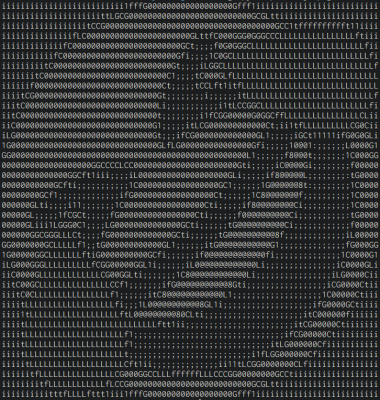
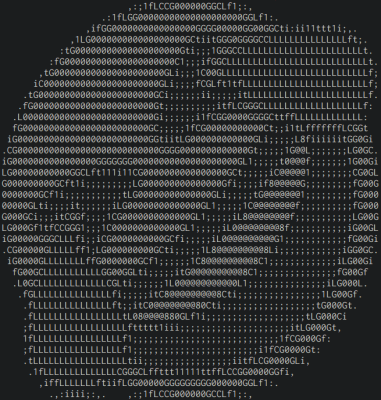
Add consideration of alpha channel

diff --git a/cimage.py b/cimage.py
@@ -22,9 +22,10 @@ def output_image(args, data, value_max, width, height, channels):
     for y in range(0, height):
         row = ""
         for x in range(0, width):
-            r = max(0, min(data[index + 0], value_max)) / value_max
-            g = max(0, min(data[index + 1], value_max)) / value_max
-            b = max(0, min(data[index + 2], value_max)) / value_max
+            a = max(0, min(data[index + 3], value_max)) / value_max
+            r = max(0, min(data[index + 0], value_max)) / value_max * a
+            g = max(0, min(data[index + 1], value_max)) / value_max * a
+            b = max(0, min(data[index + 2], value_max)) / value_max * a
             brightness = get_brightness(r, g, b)
             row += tone[min(int(brightness * len(tone)), len(tone) - 1)]
             index += channels
@@ -55,7 +56,7 @@ def main(argv):
     c_width = ctypes.c_int32()
     c_height = ctypes.c_int32()
     c_data = ctypes.POINTER(ctypes.c_uint8)
-    channels = 3
+    channels = 4
 
     c_data = imageutil.load_image(c_filename, c_width, c_height, channels)
 

diff --git a/README.md b/README.md
@@ -82,7 +82,7 @@ $ cimage.py emoji.png -w 50 -t " 123745689"
 
 ## Setup
 
-1. Build `imageutil/build/libimageutil.so`
+1. Build `imageutil/bin/libimageutil.so`
 
     ```sh
     $ mkdir imageutil/build
